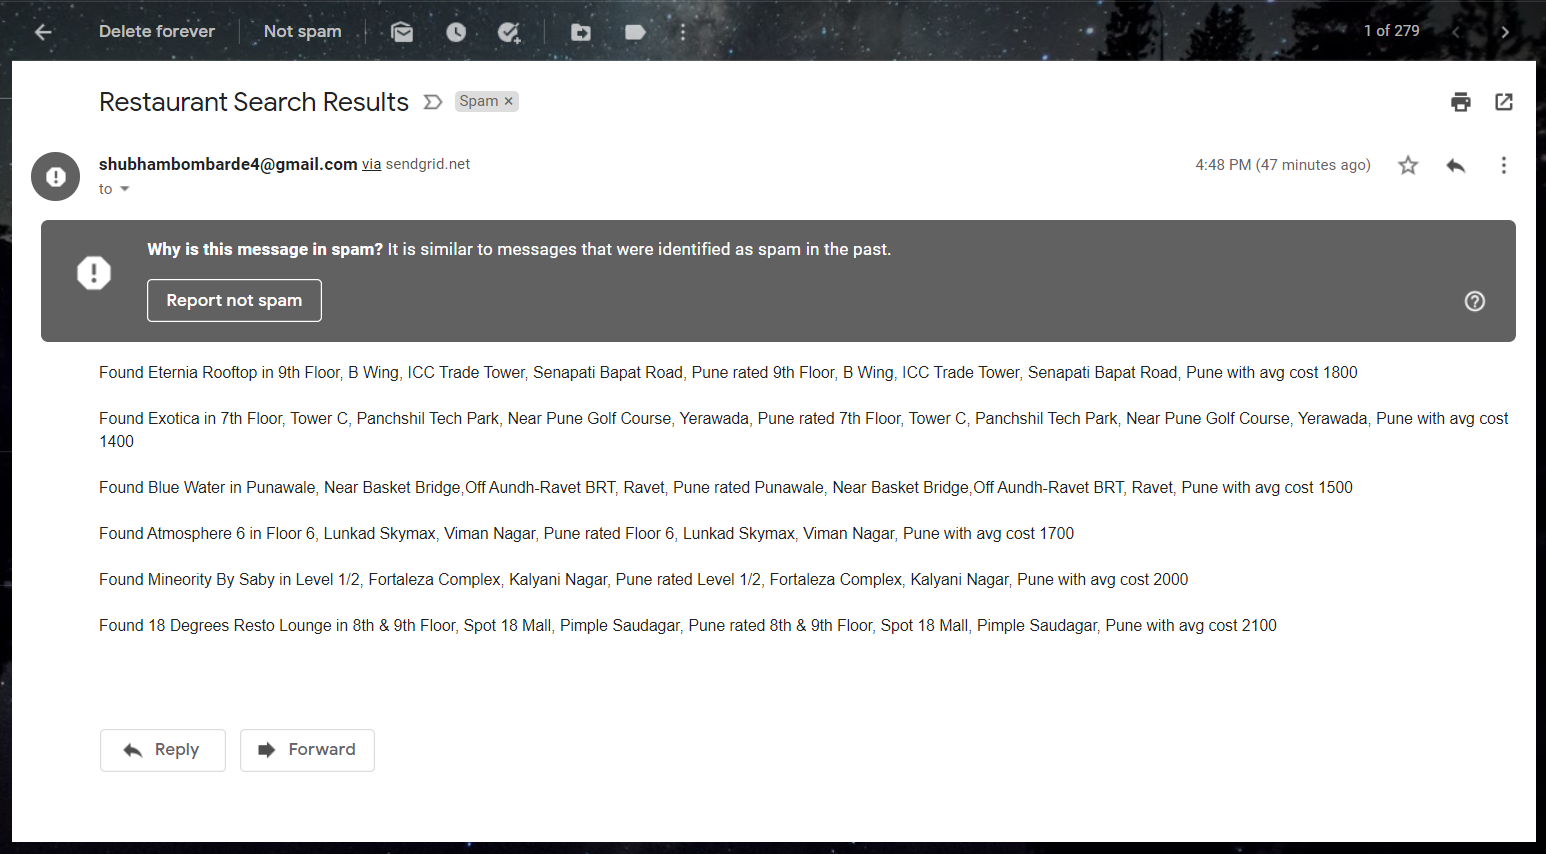
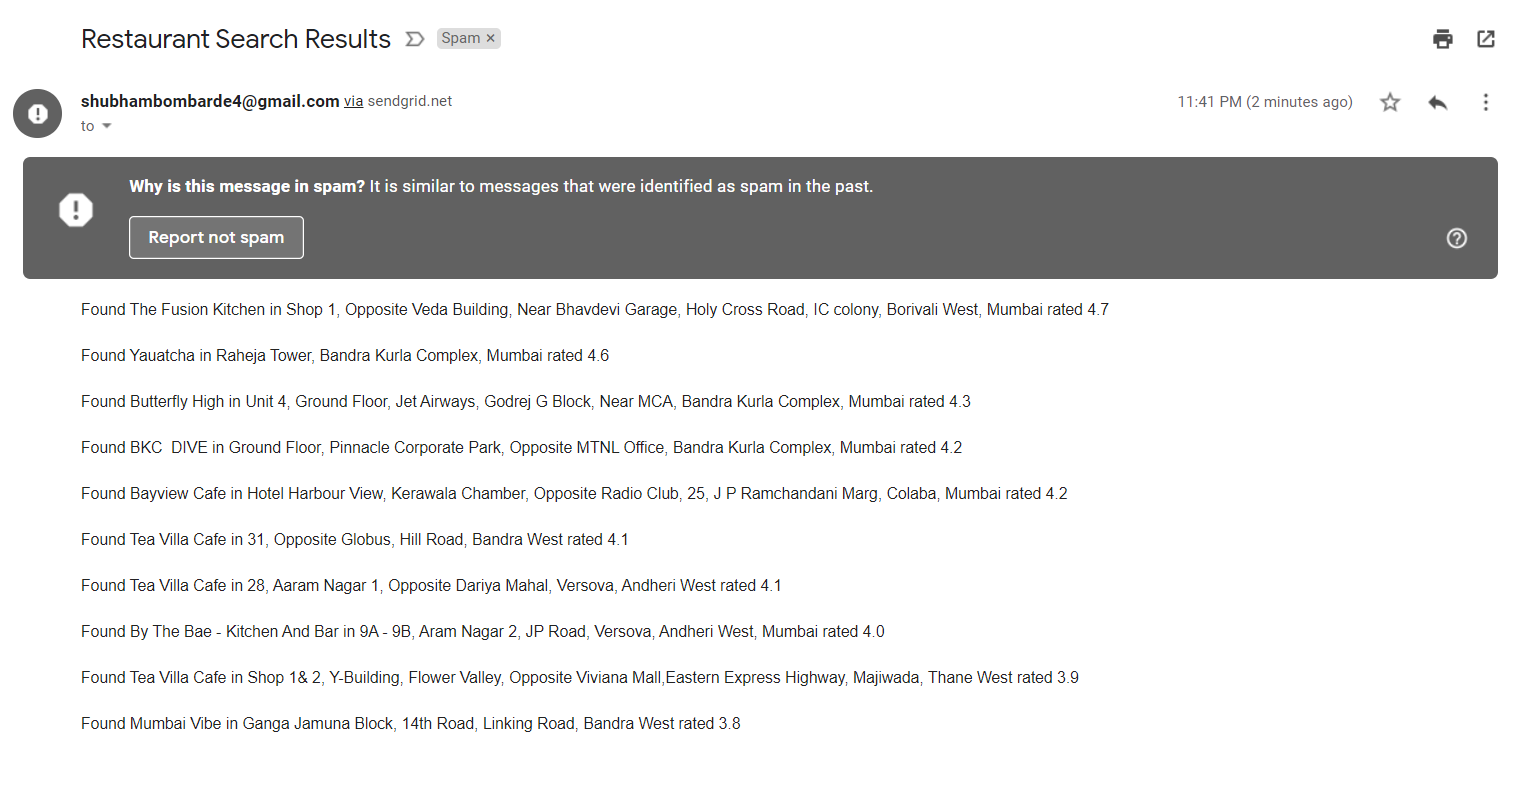
demonstration link

diff --git a/README.md b/README.md
@@ -14,3 +14,8 @@ Repo for collaborating on the Rasa Chatbot Assignment
 - Since we are using the free quota from SendGrid, we only have a quota of 100 mails / day
 - Please check Spam Box for recieved mails. 
 - If mails couldn't be delivered, it is possibly due to issue with SendGrid API key which may be expired (free quota).
+
+# Demonstration
+- Demonstration Video Link - https://drive.google.com/file/d/1_GeovQgB9LuxG6ndsKRVF5AjZsfUO7nf/view?usp=sharing
+
+- Screenshot of the recieved mail is saved in /RESULTS/Email via SendGrid.py
